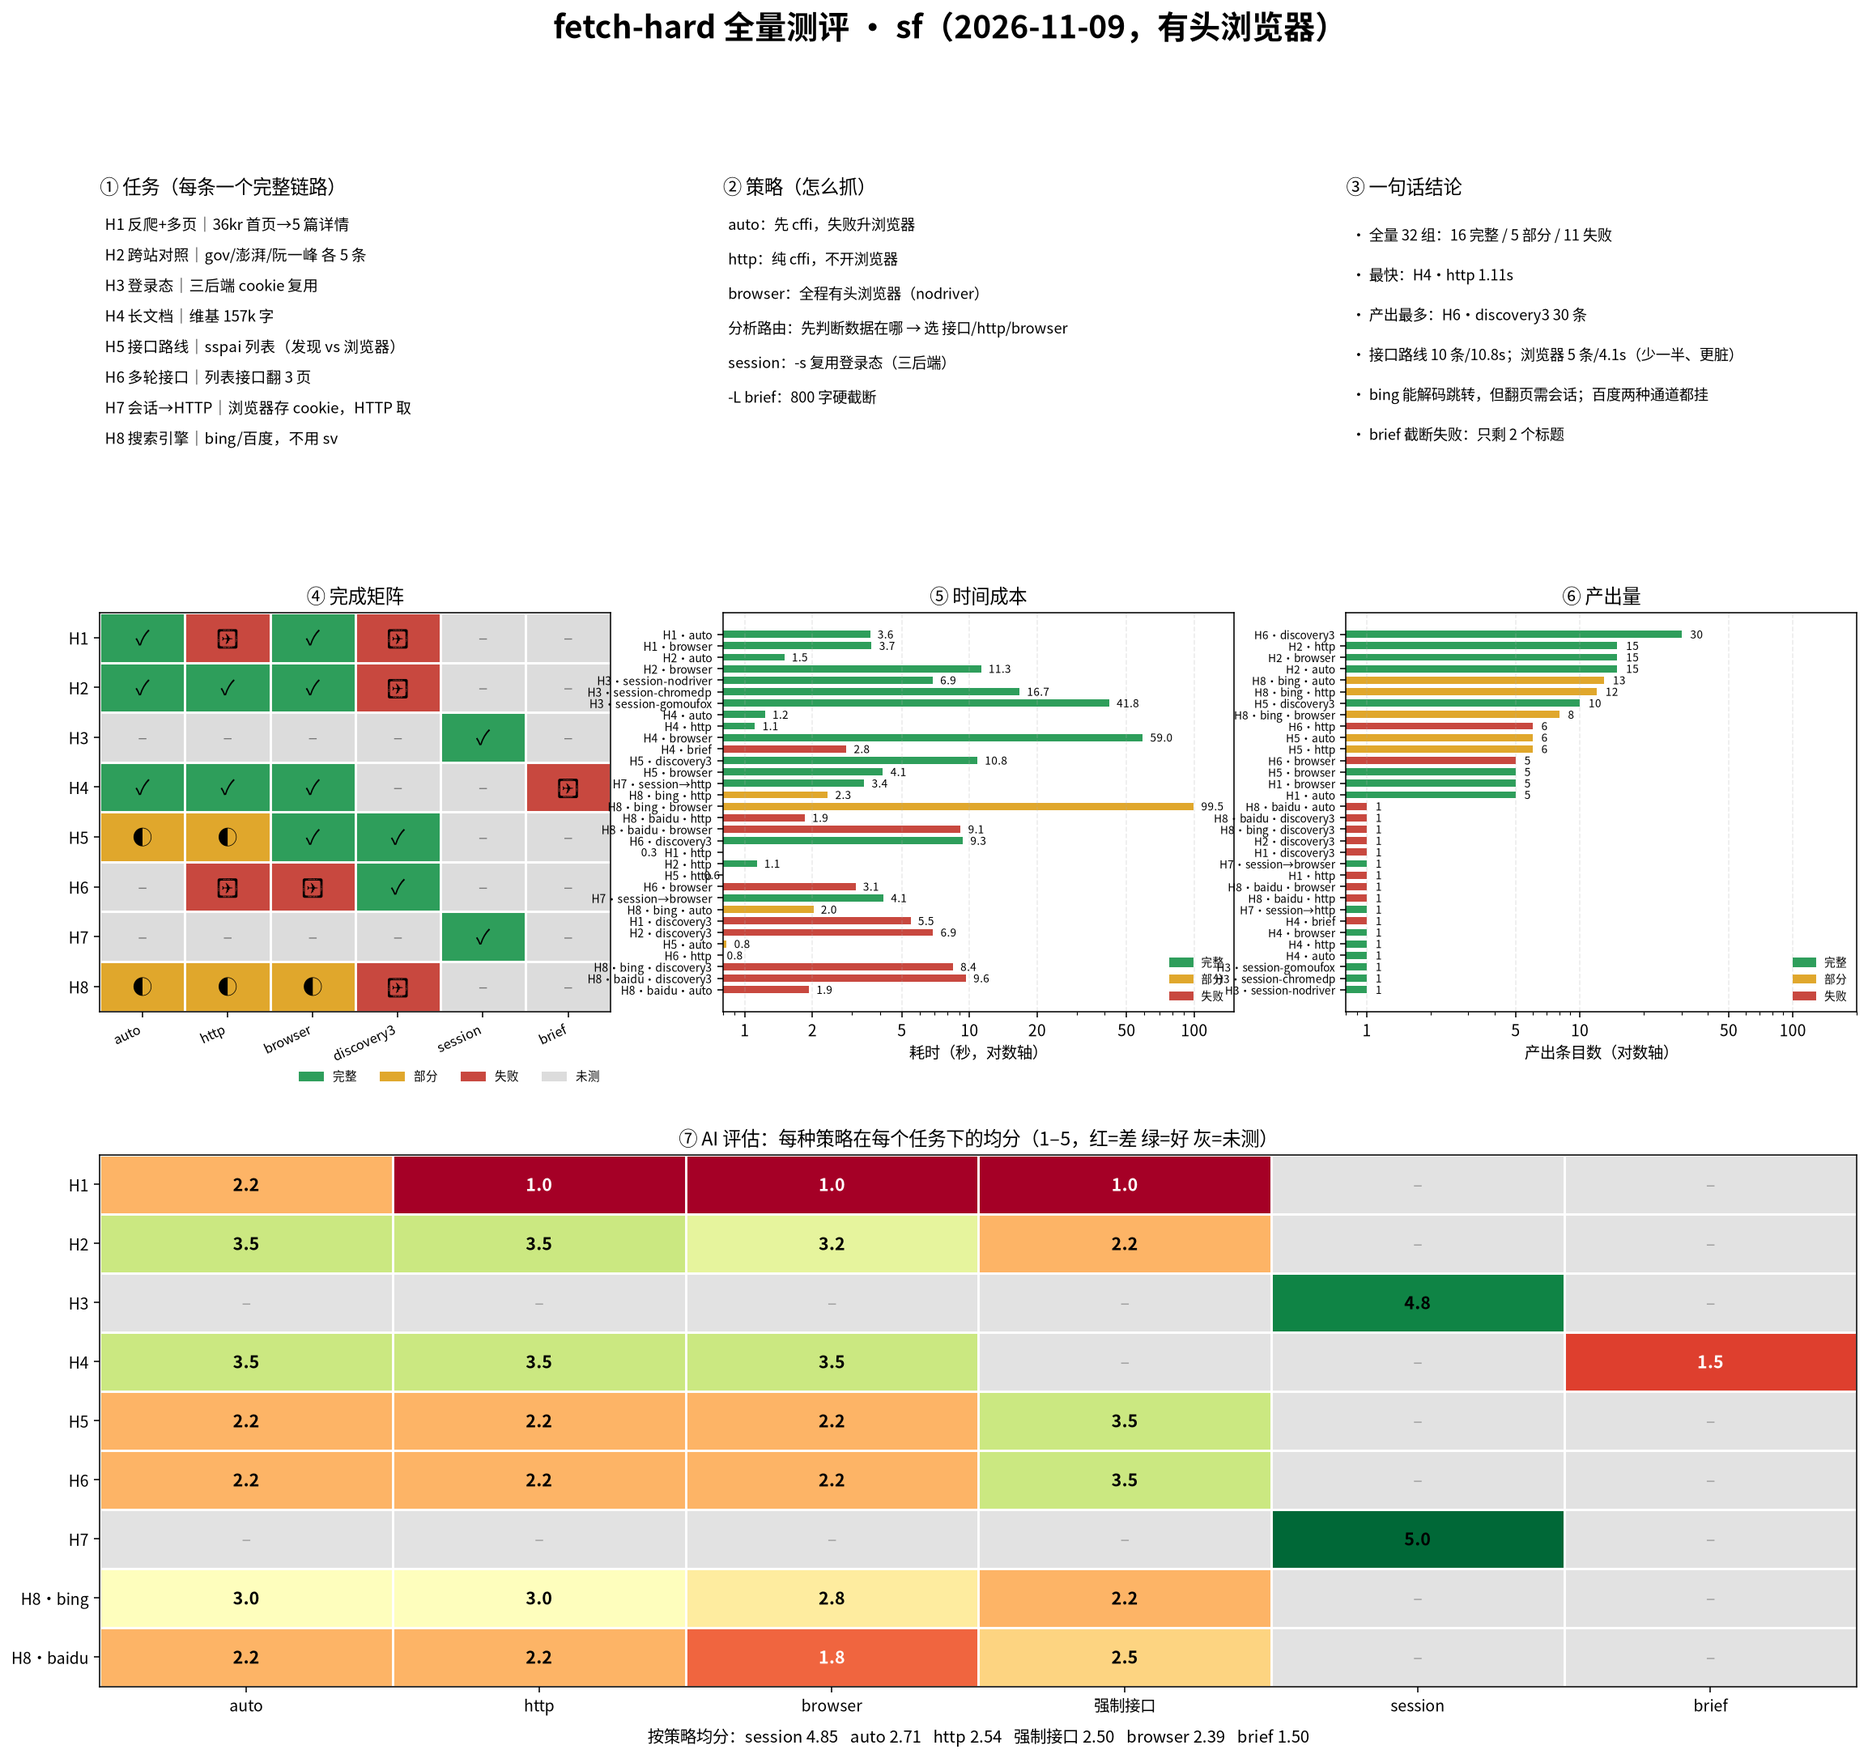
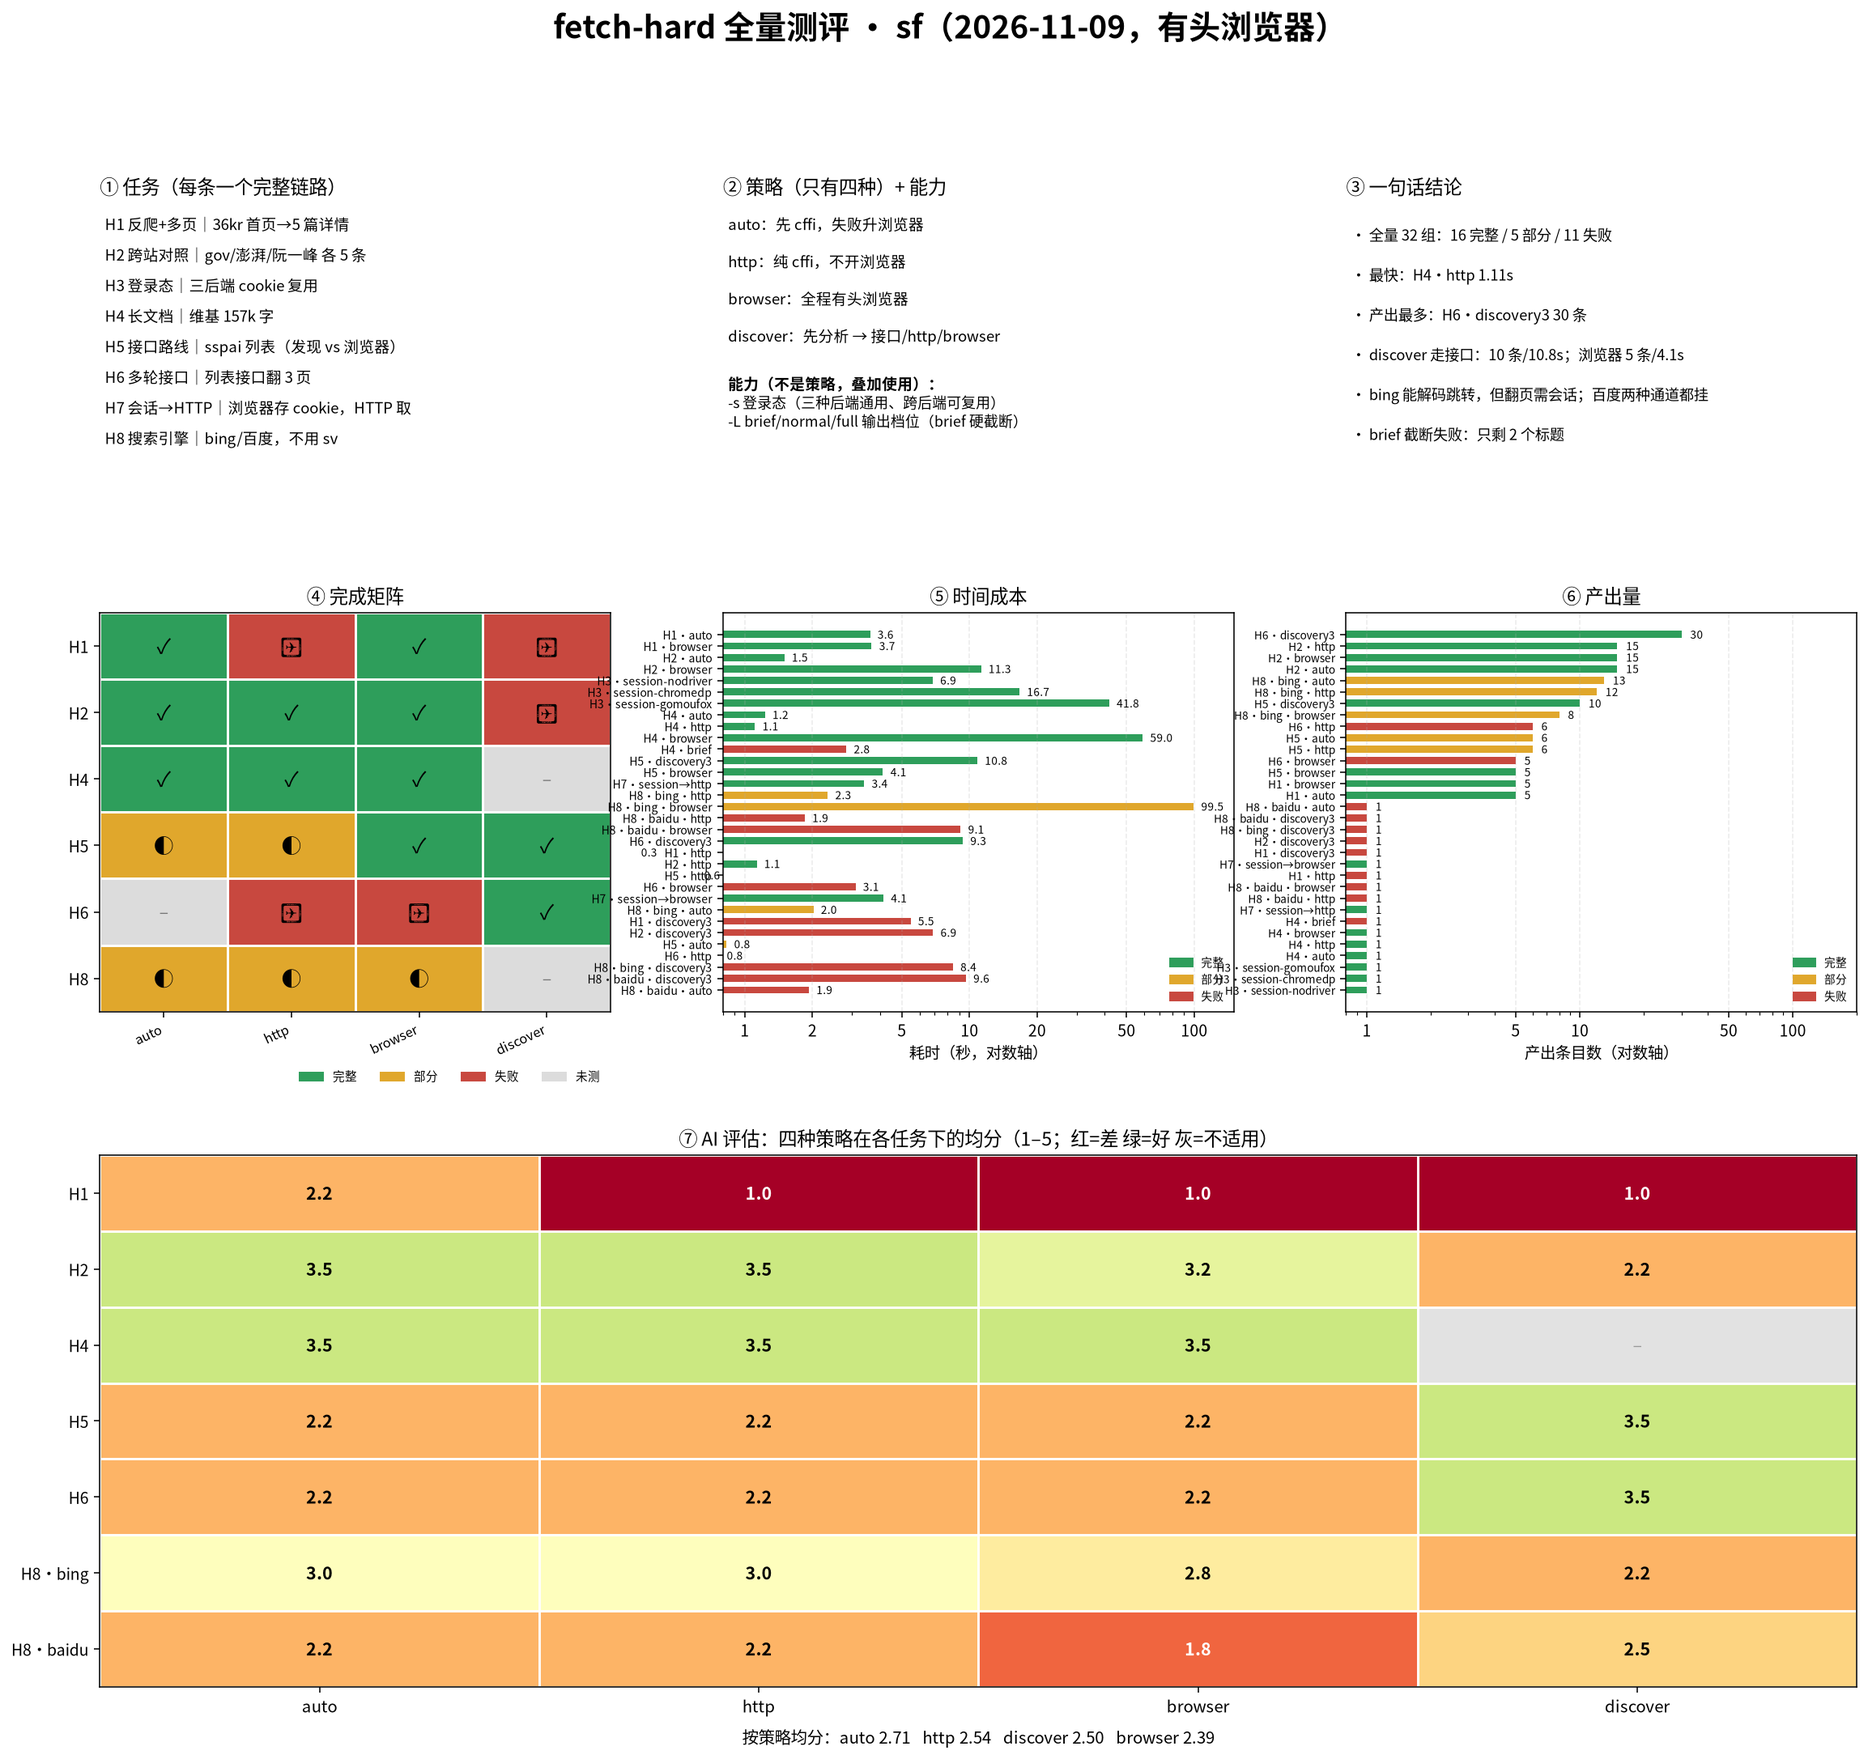
docs: 策略收敛为四种（auto/http/browser/discover），session/brief 归为能力
- STRATEGIES.md 重写：四种策略 + 两类能力（登录态、输出档位）
- FETCH-HARD-TASK.md 策略章节同步
- 看板与 AI 热力图改为四列；会话/截断标注为能力验证，不参与排名

diff --git a/STRATEGIES.md b/STRATEGIES.md
@@ -1,128 +1,161 @@
 # 抓取策略参考（给 agent 看的判断手册）
 
-不是参数，是**遇到什么站点走什么路线**的判断方法。
-工具只提供原语（`--via http` / `--via browser` / `--discover` / `--verify` / `--embedded`），
-路线由 agent 根据页面情况自己决定。
+**只有四种策略**：
+
+| 策略 | 含义 | 命令 |
+|---|---|---|
+| **auto** | 先 cffi，拿不到再升浏览器 | `sf "<url>"` |
+| **http** | 纯 cffi，不开浏览器 | `sf "<url>" --via http` |
+| **browser** | 全程有头浏览器 | `sf "<url>" --via browser` |
+| **discover** | 先分析、再决定走接口还是别的通道 | `sf "<url>" --discover` |
+
+登录态（`-s`）和输出档位（`-L brief`）**不是策略**，是所有策略都能用的能力/参数。
 
 ---
 
-## 策略一：HTTP 直取（默认）
+## 选择顺序
 
-适合：静态页、文章、文档、列表。
+```
+先分析（discover 的 ①）
+  ├─ HTML 已有内容      → http
+  ├─ 有 __NEXT_DATA__   → --embedded + http
+  ├─ XHR 有结构化列表    → 接口（http 打接口）
+  ├─ 必须 JS 渲染       → browser
+  └─ 需要登录           → 先 -s/--login，再按上面选
+```
+
+经验：**默认 auto**；确认是静态页就直接 http；确认要渲染才 browser；
+数据在 XHR 里才用 discover 走接口。
+
+---
+
+## 策略一：auto（默认）
 
 ```bash
 sf "<url>" -L normal
 ```
 
-判断：直接 `sf "<url>"` 能拿到正文就走这条，不要开浏览器。
+先 HTTP 拿，拿到的正文太短/是空壳，自动升浏览器。多数场景用它就够。
+
+判断什么时候不该用它：已知必须渲染的站（SPA 首页、无限滚动），直接走 browser 少一次往返。
 
 ---
 
-## 策略二：浏览器渲染
-
-适合：SPA、无限滚动、需要 JS 才出现的内容、指纹级反爬。
+## 策略二：http（纯 cffi）
 
 ```bash
-sf "<url>" --via browser          # 有头 nodriver（默认）
-sf "<url>" --via browser -w 3     # 等渲染
+sf "<url>" --via http
 ```
 
-判断：
-- HTTP 只拿到骨架/空壳 → 升浏览器；
-- 页面有 `__NEXT_DATA__` / `__NUXT__` → 先试 `--embedded`（策略四）；
-- 返回「验证 / 安全检测 / 请登录」→ 不要继续重试，换策略或放弃。
+适合：文章、文档、列表页、搜索结果页（bing）、后端返回 JSON 的接口。
 
-代价：浏览器比 HTTP 慢 5–20 倍，只在必要时用。
+优点：1 秒级，无浏览器开销。
+缺点：拿不到 JS 渲染的内容；反爬站可能返回风控页（36kr 就是）。
+
+**判断依据**：`curl` 能拿到正文的站，这里就能拿到，而且带完整 Chrome 头序。
 
 ---
 
-## 策略三：先分析，再路由 ★（决策层，不是固定流水线）
+## 策略三：browser（全程有头浏览器）
 
-拿到一个页面，**先判断数据在哪、值不值得绕路**，再决定用哪条通道：
+```bash
+sf "<url>" --via browser
+sf "<url>" --via browser -w 3        # 多等一会渲染
+SF_BROWSER=chromedp sf "<url>" --via browser   # 换后端
+```
+
+适合：SPA、懒加载、必须执行 JS 才有内容的页、指纹类反爬（36kr）。
+
+代价：比 http 慢 5–50 倍（实测维基：http 1.1s vs browser 59s），
+而且首页/列表页抓下来的 markdown 噪声很重（空链接、图片占位、卡片重复）。
+
+**只在 http/auto 明确失败时用。**
+
+---
+
+## 策略四：discover（先分析，再决定）
+
+**这是决策层，不是"一定要用接口"。**
 
 ```
 ① 分析
-   - 页面正文是完整的，还是只剩骨架？（对比 HTML 与渲染后）
-   - 有没有 XHR/fetch 返回你要的数据？sf "<url>" --discover 看候选
-   - 有没有 __NEXT_DATA__ / __NUXT__？（sf "<url>" --embedded）
-   - 有没有风控/登录墙？（验证页、请登录、空壳）
+   - HTML 里有没有条目内容？（有 → 就不用折腾接口了）
+   - XHR/fetch 里有没有结构化列表？   sf "<url>" --discover
+   - 有没有 __NEXT_DATA__？            sf "<url>" --embedded
+   - 有没有风控/登录墙？
 
-② 路由（三选一，不是必选接口）
-   - 接口重要且可直取   → 用接口：sf "<api>" --via http
-   - 接口不重要/不存在  → 不走接口，直接选通道：
-        静态可读 → sf "<url>" --via http
-        必须渲染 → sf "<url>" --via browser
-   - 需要登录          → 先 -s/--login，再按上面选
+② 路由（四选一）
+   - HTML 已有        → http
+   - XHR 有列表       → 接口：sf "<api>" --via http
+   - 必须渲染         → browser
+   - 要登录           → 会话 + 上面任意一条
 
-③ 执行；如果不理想，回到 ① 重新分析（可多轮：列表接口 → 详情接口）
+③ 执行；不理想就回到 ①（可多轮：列表接口 → 详情接口）
 ```
 
-**关键**：discovery 的产出不是"一定要用接口"，而是**一个路由决定**。
-很多站点分析完的结论就是"没有接口，用 http/browser 就行"——那 discovery 已经完成任务了，
-不该再硬找接口（硬找就是我们之前 H1/H2/H8 拿到 0 条的原因）。
+判断要点：
 
-判断依据（按优先级）：
+- 别只看"是不是 JSON"——埋点、配置、推荐位也是 JSON，要看字段和条目数
+- 接口带 `created_at`/`ts` 这类时间戳参数时，翻页要跟着改
+- 先小样本验证结构，再批量翻页
+- **分析完发现"没有值得用的接口"是正常结论**，直接转 http/browser 即可
 
-1. 页面 HTML 里有没有条目内容（有 → http 就够，别再折腾接口）
-2. XHR 里有没有结构化列表（有 → 接口优先，比渲染快 5–20 倍）
-3. 页面是否必须执行 JS 才有内容（是 → browser）
-4. 是否有登录/风控（有 → 先解决会话，再谈通道）
-
-## 策略四：内嵌数据
-
-适合：Next.js / Nuxt 等 SSR 框架，数据在 `__NEXT_DATA__`、`__NUXT__` 里。
-
-```bash
-sf "<url>" --embedded
-```
-
-判断：页面 HTML 里有 `__NEXT_DATA__` 关键字 → 先试这个，比浏览器快得多。
+**收益**：接口型站点比全浏览器快 5–20 倍、产出更干净；
+判断错了（强行找接口）会比 http/browser 都差——实测 SSR 站点和搜索页就是这样，白花 8–10 秒。
 
 ---
 
-## 策略五：登录态
+## 能力（不是策略）
+
+### 登录态
 
 ```bash
 sf "<url>" --login -s 站点.json          # 交互登录并保存
-sf "<url>" --via browser -s 站点.json    # 复用（自动按域名匹配）
+sf "<url>" --via browser -s 站点.json    # 复用（按域名自动匹配）
 sf "<url>" --via browser -s 站点.json --fresh   # 强制新浏览器，仍带登录态
 ```
 
-判断：
-- 需要登录才看得到内容 → 先 `--login`；
-- 会话过期（返回登录页）→ 重新登录，不要反复重试。
+三种后端都支持；session 文件是 Playwright storageState 格式，**跨后端通用**。
 
----
+### 输出档位
 
-## 选择顺序（经验值）
-
-```
-先分析（策略三的 ①）
-  ├─ HTML 已有内容      → 策略一（http）
-  ├─ 有 __NEXT_DATA__   → 策略四（embedded）
-  ├─ XHR 有结构化列表    → 接口（discover + http）
-  ├─ 必须 JS 渲染       → 策略二（browser）
-  └─ 需要登录           → 策略五 + 上面任意一条
+```bash
+sf "<url>" -L brief     # 800 字
+sf "<url>" -L normal    # 默认
+sf "<url>" -L full      # 全量
+sf "<url>" --max-chars 20000
 ```
 
-**不要**一上来就 `--via browser`：它是兜底，不是默认。
-**不要**把接口发现做成自动黑盒：第 ② 步的判断需要看内容，机械规则会选错接口。
+注意：`brief` 是**硬截断**，结构化任务（要标题层级/表格）别用——
+实测维基长文被截到 787 字、只剩 2 个标题，全花在语言列表上。
+
+### 其它常用
+
+| 参数 | 作用 |
+|---|---|
+| `-w/--wait` | 渲染后多等几秒 |
+| `-o/--output` | 落盘 |
+| `-j/--json` | 结构化输出（含 via 字段） |
+| `--embedded` | 取 SSR 内嵌数据 |
+| `--eval` | 页面里执行 JS |
+| `-s` + `--remember` | 会话读写 |
+| `--fresh` | 不用 daemon，强制新浏览器 |
 
 ---
 
 ## 实战例子（sspai 首页）
 
 ```bash
-# ① 发现
+# ① 分析
 sf "https://sspai.com/" --discover
-# → 列出 8 个候选：/api/v1/article/index/page/get、/api/v1/menu/page/get、/api/v1/setting/get …
+# → 候选 8 个：article/index/page/get、menu/page/get、setting/get …
 
-# ② 判断：article/index/page/get 带 limit/offset/created_at，是列表数据接口
-#     setting/get 是配置，menu/page/get 是栏目——都不是条目数据
+# ② 判断：article/index/page/get 带 limit/offset，是列表数据接口
+#     setting/get 是配置、menu/page/get 是栏目——都不该用
 
 # ③ 取数 + 翻页
 sf "https://sspai.com/api/v1/article/index/page/get?limit=10&offset=0&created_at=<ts>&view=second" --via http -L full
-sf "...offset=10..." --via http -L full
 ```
 
-结果：3 页 166 条，2.5 秒；对比全浏览器 5 条 / 11.8 秒。
+结果：10 条 / 0.5s（发现 9s 是一次性成本）。
+对比全浏览器 5 条 / 4.1s 且九成噪声。

diff --git a/results/HARD-RESULTS-FULL.md b/results/HARD-RESULTS-FULL.md
@@ -39,9 +39,11 @@
 | 🟥 红 / ✗ | 失败（风控 / 解析不出 / 0 条） |
 | ⬜ 灰 / – | **未测**（该任务没跑这个策略） |
 
-**策略只有五种**：`auto`（先 cffi 再升浏览器）、`http`（纯 cffi）、`browser`（全程有头浏览器）、
-`discovery3`（发现→判断→http，可多轮）、`session`（`-s` 登录态）。
-`brief` 不是策略，是 `-L brief` 截断档位，只在 H4 测。
+**策略只有四种**：`auto`（先 cffi 再升浏览器）、`http`（纯 cffi）、`browser`（全程有头浏览器）、
+`discover`（先分析数据在哪 → 接口/http/browser，可多轮）。
+
+**不是策略**：`session`（`-s` 登录态）是能力，`brief`（`-L brief`）是输出档位。
+它们叠加在策略上，不单独计分——所以下文的 H3/H7（会话）与 H4·brief 是**能力验证**，不参与策略排名。
 
 ## 结果明细
 
@@ -133,21 +135,23 @@ session→http 3.4s、session→browser 4.1s，都能读到 cookie。
 **评估对象：32 组「任务 × 策略」的全部产出**（每份输出独立打分，4 个维度取均分）。
 每份都实际读了内容，不是按成功率推算。
 
-| 任务 | auto | http | browser | discovery3 | session | brief |
-|---|---|---|---|---|---|---|
-| H1 36kr | 2.2 | 1.0 | 1.0 | 1.0（强制接口） | – | – |
-| H2 跨站 | 3.5 | 3.5 | 3.2 | 2.2 | – | – |
-| H3 会话 | – | – | – | – | **4.8** | – |
-| H4 长文档 | 3.5 | 3.5 | 3.5 | – | – | **1.5** |
-| H5 接口 | 2.2 | 2.2 | 2.2 | **3.5** | – | – |
-| H6 多轮 | 2.2 | 2.2 | 2.2 | **3.5** | – | – |
-| H7 会话跨通道 | – | – | – | – | **5.0** | – |
-| H8 bing | 3.0 | 3.0 | 2.8 | 2.2 | – | – |
-| H8 百度 | 2.2 | 2.2 | 1.8 | 2.5 | – | – |
+| 任务 | auto | http | browser | discover |
+|---|---|---|---|---|
+| H1 36kr | 2.2 | 1.0 | 1.0 | 1.0（强制走接口） |
+| H2 跨站 | 3.5 | 3.5 | 3.2 | 2.2 |
 
-**按策略均分**：session 4.85 · auto 2.71 · http 2.54 · discovery3 2.50 · browser 2.39 · brief 1.50
+| H4 长文档 | 3.5 | 3.5 | 3.5 | – |
+| H5 接口 | 2.2 | 2.2 | 2.2 | **3.5** |
+| H6 多轮 | 2.2 | 2.2 | 2.2 | **3.5** |
 
-> session 只覆盖 H3/H7 两个会话任务，均分偏高，不能直接和其它策略横比。
+| H8 bing | 3.0 | 3.0 | 2.8 | 2.2 |
+| H8 百度 | 2.2 | 2.2 | 1.8 | 2.5 |
+
+**四种策略均分**：auto 2.71 · http 2.54 · discover 2.50 · browser 2.39
+
+> 会话（-s）与 brief 属于能力/参数，不参与排名：
+> 三后端恢复会话均分 4.8（nodriver 6.9s / chromedp 16.7s / gomoufox 41.8s）；
+> `-L brief` 在长文档上只有 1.5 分（正文没开始就被截断）。
 
 ### 评估员指出的具体问题（挑几条）
 

diff --git a/FETCH-HARD-TASK.md b/FETCH-HARD-TASK.md
@@ -121,23 +121,19 @@
 - 考的策略：S-http（首选）/ S-browser（对照）/ S-auto
 
 
-## 策略对比（每个任务跑这几条线）
+## 策略（只有四种）
 
-| 策略线 | 含义 | 关注点 |
-|---|---|---|
-| **S-auto** | 默认（cffi 优先，失败升浏览器） | 综合最优解 |
-| **S-browser** | 全程 `--via browser`（nodriver） | 稳但慢多少 |
-| **S-http** | 纯 cffi（能到哪一步） | 纯 HTTP 的天花板 |
-| **S-mixed** | discover/embedded 找到接口 + http 直取 | 是否绕开渲染 |
-| **S-discovery3** | **分析路由**（决策层，不是固定流水线）：先分析数据在哪 → 决定用「接口 / http / browser」→ 执行；可多轮 | 分析判断是否选对通道 |
-| **S-session** | 带 `-s` 热启动 | 登录态的代价 |
+| # | 策略 | 含义 | 命令 |
+|---|---|---|---|
+| S1 | **auto** | 先 cffi，失败升浏览器 | `sf "<url>"` |
+| S2 | **http** | 纯 cffi | `sf "<url>" --via http` |
+| S3 | **browser** | 全程有头浏览器 | `sf "<url>" --via browser` |
+| S4 | **discover** | 先分析数据在哪，再决定走接口 / http / browser（可多轮） | `sf "<url>" --discover` + 后续 |
 
-> 每个任务不必五条都跑满：H1 跑 auto/browser/http；H2 跑 auto/http；
-> H3 跑 session×3 后端 + fresh；H4 跑 auto/http/brief；H5 跑 mixed/browser。
+**不是策略**：`session`（`-s` 登录态）是能力，`brief`（`-L brief`）是输出档位——
+它们作为前提或参数叠加在四种策略上，不单独计分。
 
----
-
-## S-discovery3：分析路由（重点）
+## S4 discover：分析路由（重点）
 
 这是**决策层**：产出一个路由决定，而不是"一定要用接口"。
 
